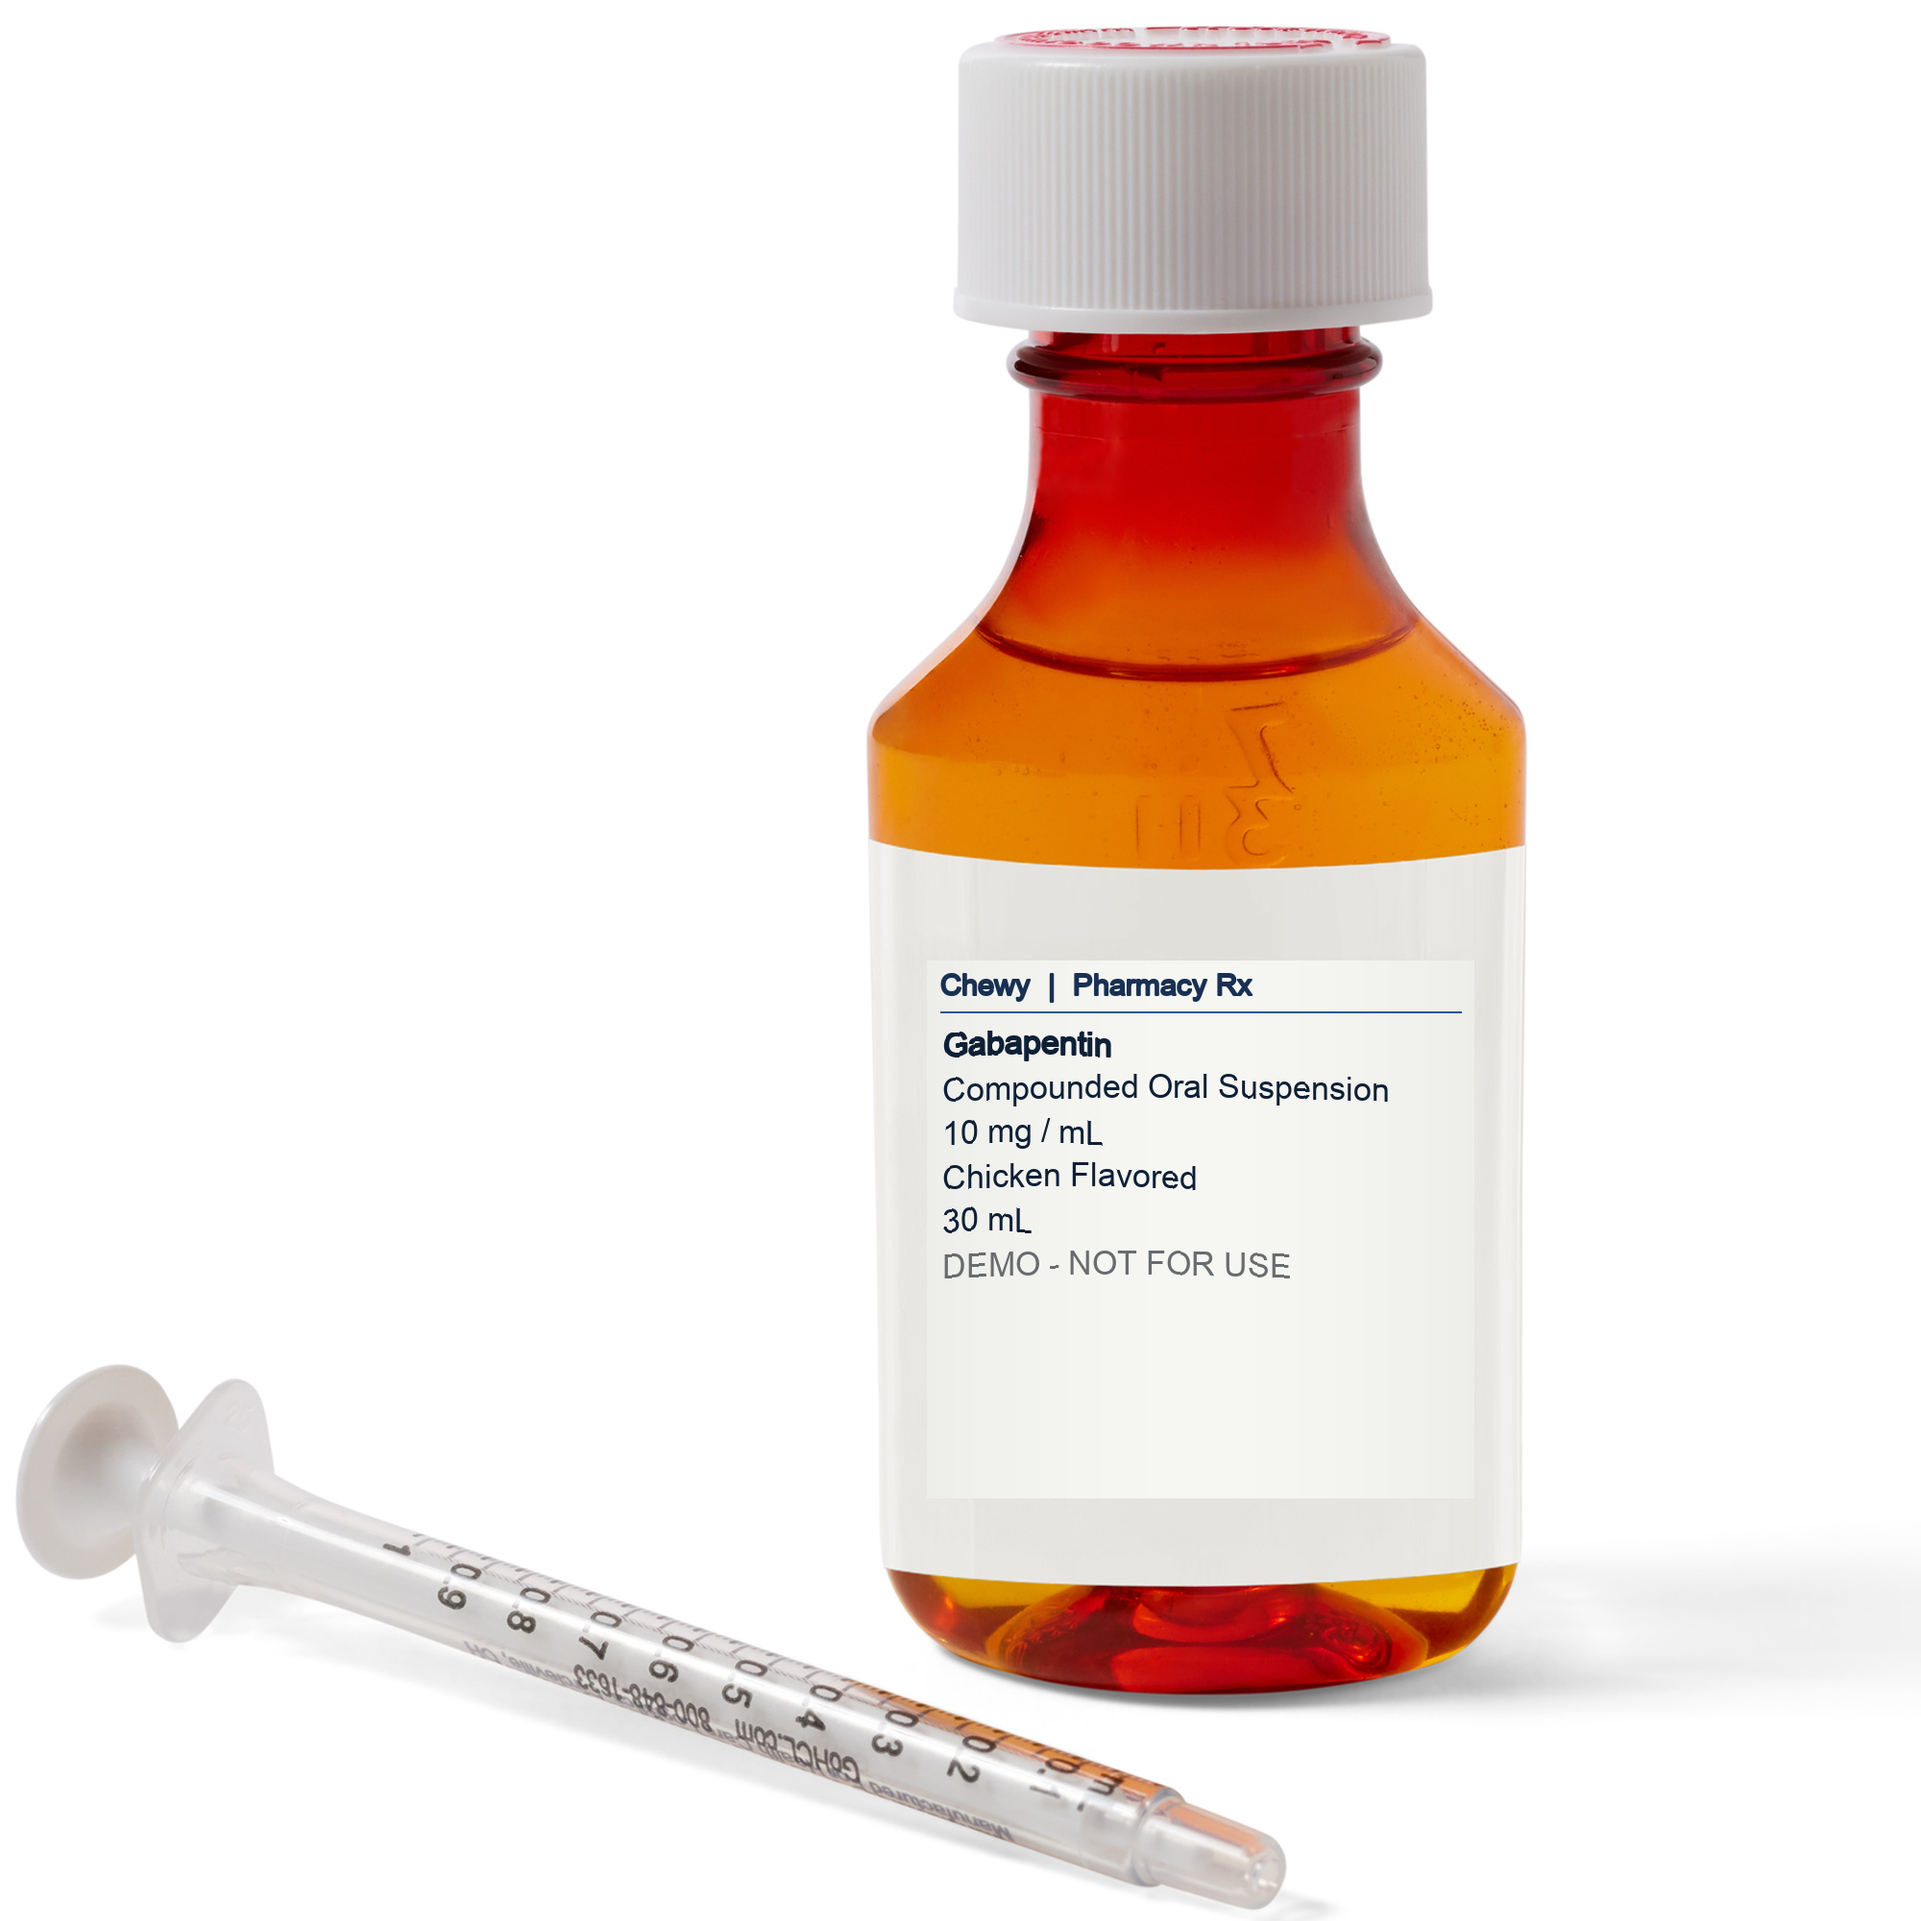
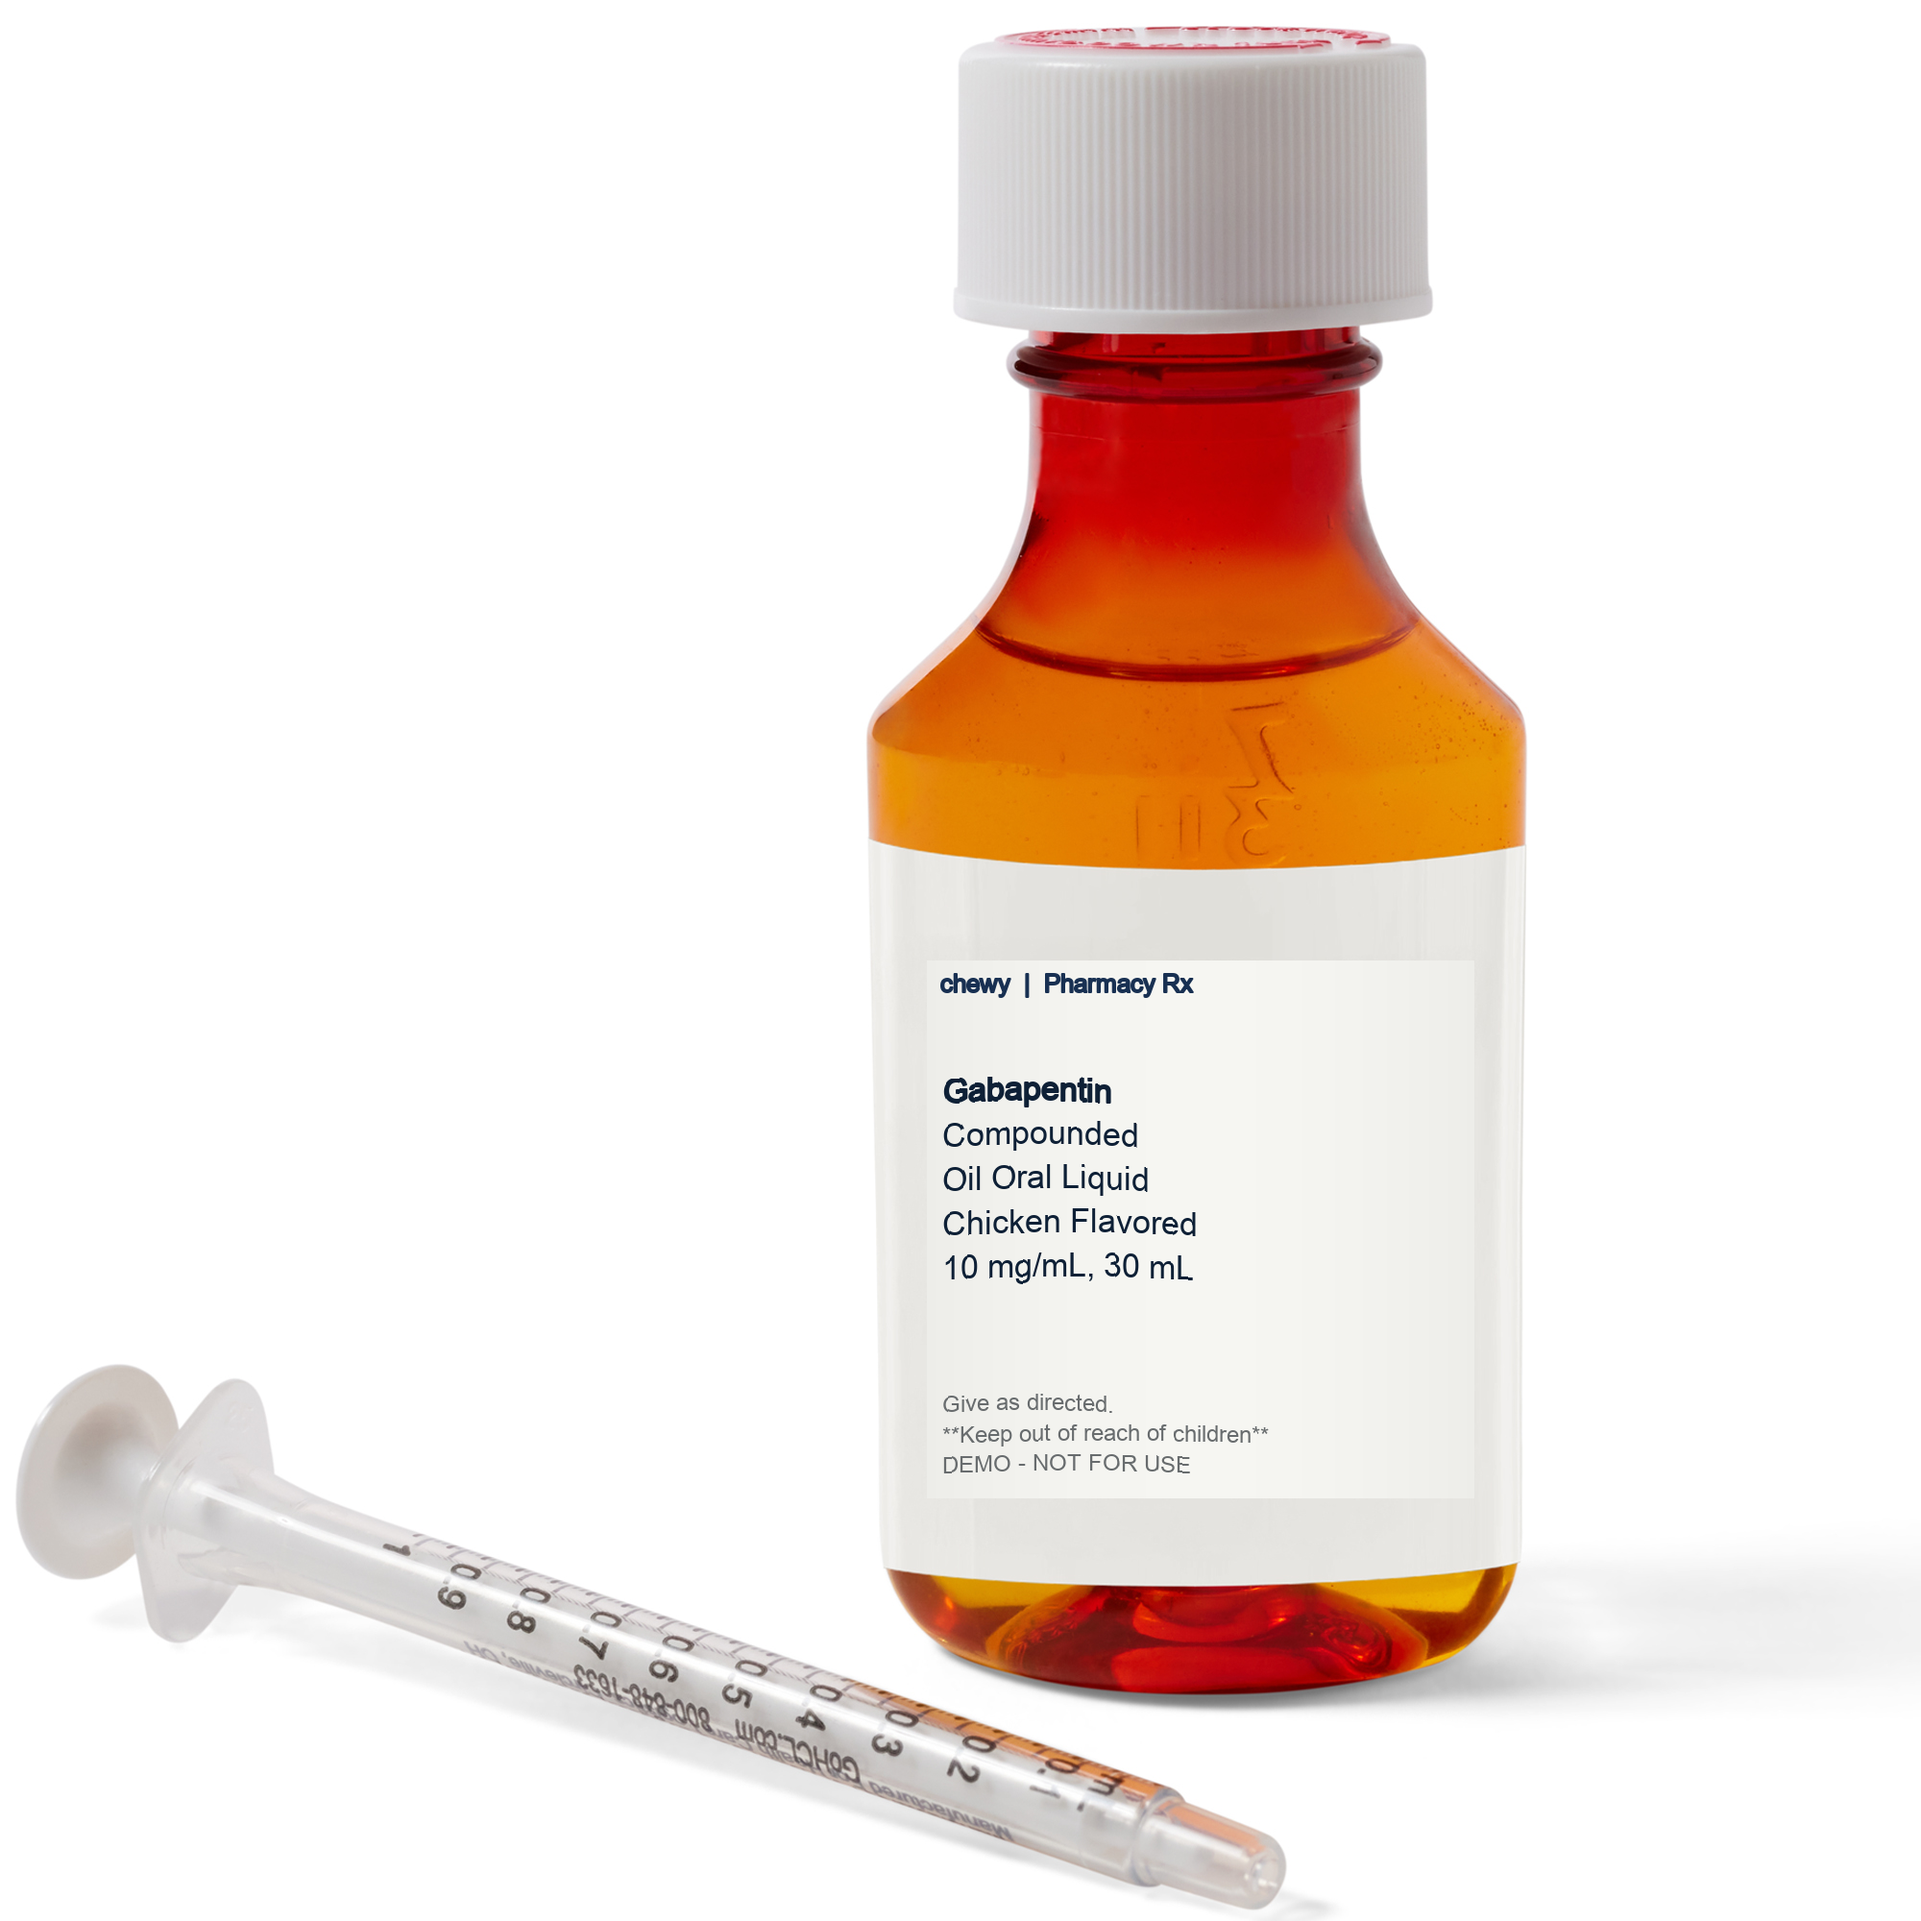
Match oral liquid reference layout

Changed region(s): [[0.496, 0.496, 0.713, 0.682], [0.496, 0.713, 0.651, 0.775]]

diff --git a/gabapentin/oral-suspension/index.html b/gabapentin/oral-suspension/index.html
@@ -1,12 +1,12 @@
 <!doctype html>
 <html lang="en"><head><meta charset="utf-8"><meta name="viewport" content="width=device-width,initial-scale=1">
-<title>Gabapentin 10 mg/mL · Oral Suspension</title><meta name="description" content="Gabapentin oral suspension media concept for Slack review">
+<title>Gabapentin 10 mg/mL · Oil Oral Liquid</title><meta name="description" content="Gabapentin oil oral liquid media concept for Slack review">
 <meta name="robots" content="noindex,nofollow"><meta property="og:type" content="website">
-<meta property="og:title" content="Gabapentin 10 mg/mL · Oral Suspension"><meta property="og:description" content="Compounded Oral Suspension · Chicken Flavored · 30 mL · unapproved visual concept">
+<meta property="og:title" content="Gabapentin 10 mg/mL · Oil Oral Liquid"><meta property="og:description" content="Compounded Oil Oral Liquid · Chicken Flavored · 30 mL · unapproved visual concept">
 <meta property="og:url" content="https://pgupta1-chwy.github.io/compounding-media-previews/gabapentin/oral-suspension/">
 <meta property="og:image" content="https://pgupta1-chwy.github.io/compounding-media-previews/assets/gabapentin-oral-suspension.png">
 <meta property="og:image:secure_url" content="https://pgupta1-chwy.github.io/compounding-media-previews/assets/gabapentin-oral-suspension.png">
 <meta property="og:image:type" content="image/png"><meta property="og:image:width" content="2000"><meta property="og:image:height" content="2000">
-<meta property="og:image:alt" content="Amber Gabapentin oral suspension bottle with curved pharmacy label"><meta name="twitter:card" content="summary_large_image">
+<meta property="og:image:alt" content="Amber Gabapentin oil oral liquid bottle with curved pharmacy label"><meta name="twitter:card" content="summary_large_image">
 <style>body{margin:0;background:#f4f6f7;font:16px system-ui;color:#183246}main{max-width:1000px;margin:30px auto;padding:20px}img{width:100%;background:#fff;border-radius:14px}small{color:#6b7f89}</style></head>
-<body><main><h1>Gabapentin 10 mg/mL · Oral Suspension</h1><p>Chicken Flavored · 30 mL</p><img src="../../assets/gabapentin-oral-suspension.png" alt="Amber Gabapentin oral suspension bottle with curved pharmacy label"><p><small>Unapproved visual concept. Temporary public hosting for Slack preview.</small></p></main></body></html>
+<body><main><h1>Gabapentin 10 mg/mL · Oil Oral Liquid</h1><p>Chicken Flavored · 30 mL</p><img src="../../assets/gabapentin-oral-suspension.png" alt="Amber Gabapentin oil oral liquid bottle with curved pharmacy label"><p><small>Unapproved visual concept. Temporary public hosting for Slack preview.</small></p></main></body></html>

diff --git a/index.html b/index.html
@@ -5,4 +5,4 @@
 <body><main><h1>Compounding media previews</h1><p>Temporary public image hosting for Slack link previews. Unapproved visual concepts.</p>
 <div class="grid"><a href="gabapentin/main/"><img src="assets/gabapentin-main.png" alt="Gabapentin capped bottle main concept"><p>Gabapentin MAIN</p></a>
 <a href="gabapentin/pt2/"><img src="assets/gabapentin-pt2.png" alt="Gabapentin capped bottle with capsules concept"><p>Gabapentin PT2</p></a>
-<a href="gabapentin/oral-suspension/"><img src="assets/gabapentin-oral-suspension.png" alt="Gabapentin oral suspension bottle concept"><p>Gabapentin oral suspension</p></a></div></main></body></html>
+<a href="gabapentin/oral-suspension/"><img src="assets/gabapentin-oral-suspension.png" alt="Gabapentin oil oral liquid bottle concept"><p>Gabapentin oil oral liquid</p></a></div></main></body></html>
